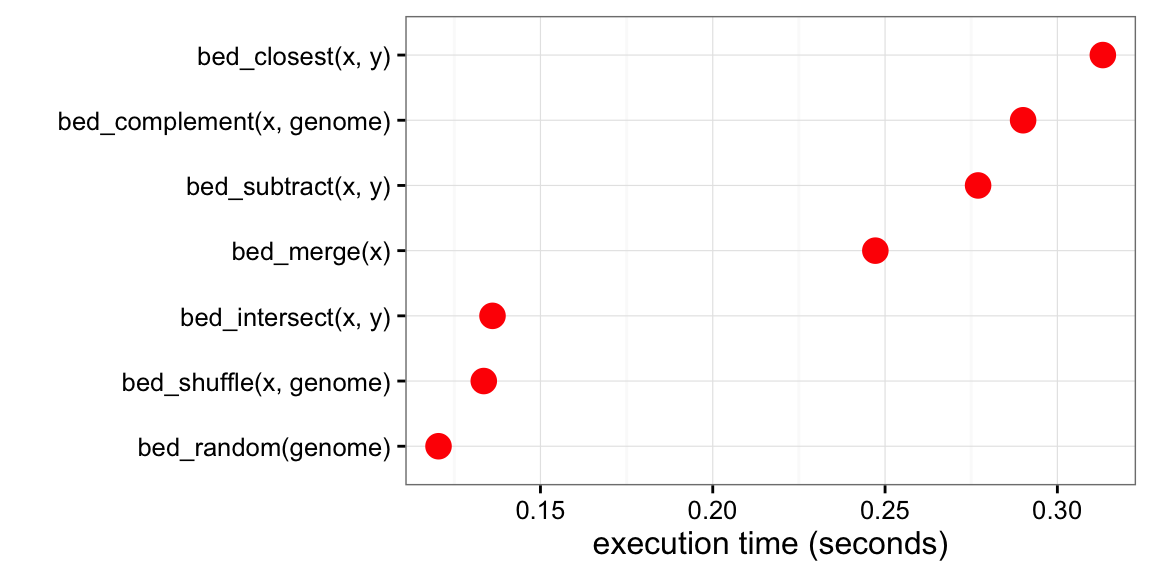
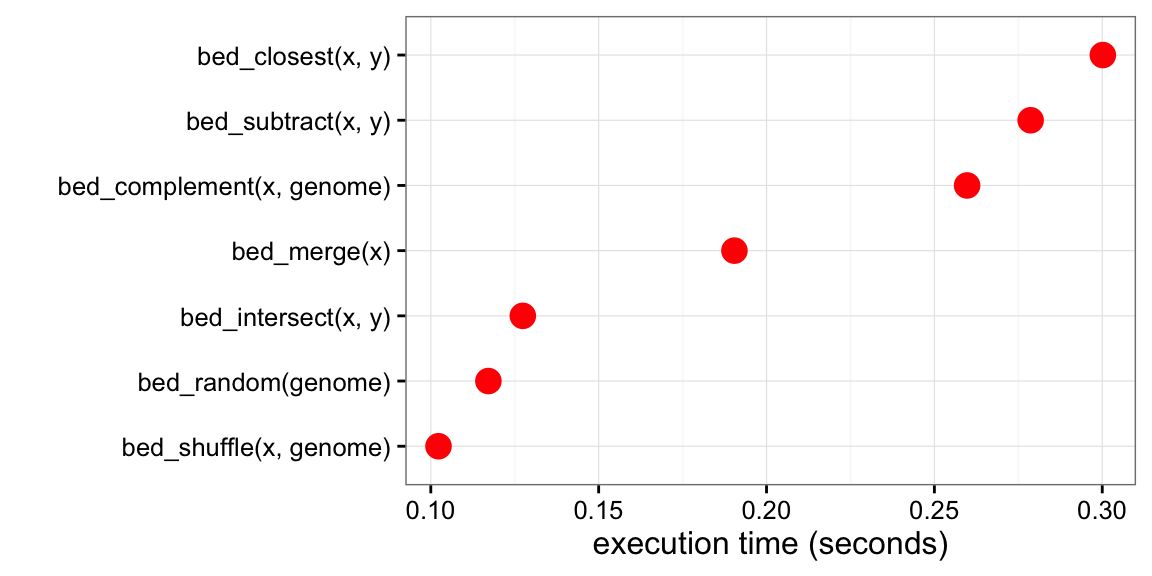
update pkgdown / family links

diff --git a/docs/reference/read_bed.html b/docs/reference/read_bed.html
@@ -128,31 +128,31 @@
     <div class="See also">
       <h2>See also</h2>
 
-      <p>Other read-funcs: <code>read_genome</code>,
-  <code>read_vcf</code></p>
+      <p>Other read-funcs: <code><a href='read_genome.html'>read_genome</a></code>,
+  <code><a href='read_vcf.html'>read_vcf</a></code></p>
     </div>
     
     <h2 id="examples">Examples</h2>
     <pre class="examples"><div class='input'><span class='co'># read_bed assumes 3 field BED format. </span>
-<span class='no'>bed3_path</span> <span class='kw'>&lt;-</span> <span class='fu'>valr_example</span>(<span class='st'>'3fields.bed.gz'</span>)
+<span class='no'>bed3_path</span> <span class='kw'>&lt;-</span> <span class='fu'><a href='valr_example.html'>valr_example</a></span>(<span class='st'>'3fields.bed.gz'</span>)
 <span class='no'>bed3_tbl</span> <span class='kw'>&lt;-</span> <span class='fu'>read_bed</span>(<span class='no'>bed3_path</span>)
 
-<span class='no'>bed6_path</span> <span class='kw'>&lt;-</span> <span class='fu'>valr_example</span>(<span class='st'>'6fields.bed.gz'</span>)
+<span class='no'>bed6_path</span> <span class='kw'>&lt;-</span> <span class='fu'><a href='valr_example.html'>valr_example</a></span>(<span class='st'>'6fields.bed.gz'</span>)
 <span class='no'>bed6_tbl</span> <span class='kw'>&lt;-</span> <span class='fu'>read_bed</span>(<span class='no'>bed6_path</span>, <span class='kw'>n_fields</span> <span class='kw'>=</span> <span class='fl'>6</span>)
 
 <span class='co'># Result is sorted by chrom and start unless `sort = FALSE`</span>
 <span class='no'>unsorted_bed_tbl</span> <span class='kw'>&lt;-</span> <span class='fu'>read_bed</span>(<span class='no'>bed3_path</span>, <span class='kw'>sort</span> <span class='kw'>=</span> <span class='fl'>FALSE</span>)
 
 <span class='co'># use `is_sorted` </span>
-<span class='fu'>is_sorted</span>(<span class='no'>unsorted_bed_tbl</span>)</div><div class='output co'>#&gt; [1] FALSE
+<span class='fu'><a href='is_sorted.html'>is_sorted</a></span>(<span class='no'>unsorted_bed_tbl</span>)</div><div class='output co'>#&gt; [1] FALSE
 #&gt; </div><div class='input'>
-<span class='no'>bed12_path</span> <span class='kw'>&lt;-</span> <span class='fu'>valr_example</span>(<span class='st'>'mm9.bed12.gz'</span>)
+<span class='no'>bed12_path</span> <span class='kw'>&lt;-</span> <span class='fu'><a href='valr_example.html'>valr_example</a></span>(<span class='st'>'mm9.bed12.gz'</span>)
 <span class='no'>bed12_tbl</span> <span class='kw'>&lt;-</span> <span class='fu'>read_bed12</span>(<span class='no'>bed12_path</span>)
 
-<span class='no'>bedgraph_path</span> <span class='kw'>&lt;-</span> <span class='fu'>valr_example</span>(<span class='st'>'test.bg.gz'</span>)
+<span class='no'>bedgraph_path</span> <span class='kw'>&lt;-</span> <span class='fu'><a href='valr_example.html'>valr_example</a></span>(<span class='st'>'test.bg.gz'</span>)
 <span class='no'>bedgraph_tbl</span> <span class='kw'>&lt;-</span> <span class='fu'>read_bedgraph</span>(<span class='no'>bedgraph_path</span>)
 
-<span class='no'>narrowpeak_path</span> <span class='kw'>&lt;-</span> <span class='fu'>valr_example</span>(<span class='st'>'sample.narrowPeak.gz'</span>)
+<span class='no'>narrowpeak_path</span> <span class='kw'>&lt;-</span> <span class='fu'><a href='valr_example.html'>valr_example</a></span>(<span class='st'>'sample.narrowPeak.gz'</span>)
 <span class='fu'>read_narrowpeak</span>(<span class='no'>narrowpeak_path</span>)</div><div class='output co'>#&gt; # A tibble: 570 × 10
 #&gt;    chrom    start      end  name score strand signal   pvalue qvalue  peak
 #&gt;    &lt;chr&gt;    &lt;int&gt;    &lt;int&gt; &lt;chr&gt; &lt;int&gt;  &lt;chr&gt;  &lt;dbl&gt;    &lt;dbl&gt;  &lt;dbl&gt; &lt;int&gt;
@@ -168,7 +168,7 @@
 #&gt; 10 chr22 18268020 18268170     .     0      .     14 12.98120     -1    -1
 #&gt; # ... with 560 more rows
 #&gt; </div><div class='input'>
-<span class='no'>broadpeak_path</span> <span class='kw'>&lt;-</span> <span class='fu'>valr_example</span>(<span class='st'>'sample.broadPeak.gz'</span>)
+<span class='no'>broadpeak_path</span> <span class='kw'>&lt;-</span> <span class='fu'><a href='valr_example.html'>valr_example</a></span>(<span class='st'>'sample.broadPeak.gz'</span>)
 <span class='fu'>read_broadpeak</span>(<span class='no'>broadpeak_path</span>)</div><div class='output co'>#&gt; # A tibble: 1,181 × 9
 #&gt;    chrom    start      end  name score strand    signal pvalue qvalue
 #&gt;    &lt;chr&gt;    &lt;int&gt;    &lt;int&gt; &lt;chr&gt; &lt;int&gt;  &lt;chr&gt;     &lt;dbl&gt;  &lt;dbl&gt;  &lt;dbl&gt;

diff --git a/docs/index.html b/docs/index.html
@@ -77,14 +77,14 @@
   <div class="col-md-9">
     
 <h1 id="valr">valr</h1>
-<p><a href="https://travis-ci.org/jayhesselberth/valr"><img src="https://travis-ci.org/jayhesselberth/valr.svg?branch=master" alt="Build Status"></a> <a href="https://codecov.io/github/jayhesselberth/valr?branch=master"><img src="https://img.shields.io/codecov/c/github/jayhesselberth/valr/master.svg" alt="Coverage Status"></a> <a href="http://www.repostatus.org/#wip"><img src="http://www.repostatus.org/badges/0.1.0/wip.svg" alt="Project Status: Wip - Initial development is in progress, but there has not yet been a stable, usable release suitable for the public."></a> <a href="http://www.r-pkg.org/pkg/valr"><img src="http://www.r-pkg.org/badges/version/valr"></a></p>
+<p><a href="https://travis-ci.org/jayhesselberth/valr"><img src="https://travis-ci.org/jayhesselberth/valr.svg?branch=master" alt="Build Status"></a> <a href="https://codecov.io/github/jayhesselberth/valr?branch=master"><img src="https://img.shields.io/codecov/c/github/jayhesselberth/valr/master.svg" alt="Coverage Status"></a> <a href="https://ci.appveyor.com/project/jayhesselberth/valr"><img src="https://ci.appveyor.com/api/projects/status/github/jayhesselberth/valr?branch=master&amp;svg=true" alt="AppVeyor Build Status"></a> <a href="http://www.repostatus.org/#wip"><img src="http://www.repostatus.org/badges/0.1.0/wip.svg" alt="Project Status: Wip - Initial development is in progress, but there has not yet been a stable, usable release suitable for the public."></a> <a href="http://www.r-pkg.org/pkg/valr"><img src="http://www.r-pkg.org/badges/version/valr"></a></p>
 <p><code>valr</code> provides tools for fast, exploratory analysis of large biological data sets <strong>within R/RStudio</strong>. <code>valr</code> was developed from a desire to teach the powerful concepts of genome interval arithmetic, but without the cumbersome back-and-forth between command-line and exploratory analysis tools.</p>
 <p>Key parts of <code>valr</code> are implemented in <a href="http://www.rcpp.org/"><code>Rcpp</code></a> for speed. Moreover, <code>valr</code> integrates with <a href="https://github.com/hadley/dplyr"><code>dplyr</code></a> and the <code>magrittr</code> pipe operator (<code>%&gt;%</code>) for an expressive syntax and can be used in reproducible reports written in <a href="http://rmarkdown.rstudio.com/"><code>RMarkdown</code></a>.</p>
 <p>See the <a href="http://jayhesselberth.github.io/valr"><code>valr</code> documentation</a> for a complete API reference and examples.</p>
 <h2 id="installation">Installation</h2>
 <p><code>valr</code> can be installed from github:</p>
-<div class="sourceCode"><pre class="sourceCode r"><code class="sourceCode r">devtools::<span class="kw">install_github</span>(<span class="st">'jayhesselberth/valr'</span>)</code></pre></div>
-<p><strong>Note</strong> that <code>valr</code> requires a full-featured C++11 compiler (<code>gcc&gt;=6.0</code> or <code>clang++</code>)</p>
+<div class="sourceCode"><pre class="sourceCode r"><code class="sourceCode r"><span class="co"># install.packages("devtools")</span>
+devtools::<span class="kw">install_github</span>(<span class="st">'jayhesselberth/valr'</span>)</code></pre></div>
 <h2 id="api">API</h2>
 <p>Function names are similar to their their <a href="http://bedtools.readthedocs.org/en/latest/">BEDtools</a> counterparts, with some additions.</p>
 <h3 id="reading-data">Reading data</h3>

diff --git a/docs/articles/valr.html b/docs/articles/valr.html
@@ -40,7 +40,7 @@
       <h1><code>valr</code>: Genome interval arithmetic in R</h1>
                         <h4 class="author">Jay Hesselberth <a href="mailto:jay.hesselberth@gmail.com">jay.hesselberth@gmail.com</a></h4>
             
-            <h4 class="date">2016-10-08</h4>
+            <h4 class="date">2016-10-11</h4>
           </div>
 
     
@@ -851,21 +851,21 @@ y &lt;-<span class="st"> </span><span class="kw"><a href="../reference/bed_rando
 )
 <span class="co">#&gt; Unit: seconds</span>
 <span class="co">#&gt;                             expr       min        lq      mean    median</span>
-<span class="co">#&gt;         bed_random(genome_human) 0.1203978 0.1203978 0.1203978 0.1203978</span>
-<span class="co">#&gt;                bed_closest(x, y) 5.0689528 5.0689528 5.0689528 5.0689528</span>
-<span class="co">#&gt;              bed_intersect(x, y) 1.8857645 1.8857645 1.8857645 1.8857645</span>
-<span class="co">#&gt;                     bed_merge(x) 3.3586847 3.3586847 3.3586847 3.3586847</span>
-<span class="co">#&gt;               bed_subtract(x, y) 3.6818359 3.6818359 3.6818359 3.6818359</span>
-<span class="co">#&gt;  bed_complement(x, genome_human) 2.8106365 2.8106365 2.8106365 2.8106365</span>
-<span class="co">#&gt;     bed_shuffle(x, genome_human) 1.0010074 1.0010074 1.0010074 1.0010074</span>
+<span class="co">#&gt;         bed_random(genome_human) 0.1323735 0.1323735 0.1323735 0.1323735</span>
+<span class="co">#&gt;                bed_closest(x, y) 5.4086166 5.4086166 5.4086166 5.4086166</span>
+<span class="co">#&gt;              bed_intersect(x, y) 1.7779920 1.7779920 1.7779920 1.7779920</span>
+<span class="co">#&gt;                     bed_merge(x) 2.1477086 2.1477086 2.1477086 2.1477086</span>
+<span class="co">#&gt;               bed_subtract(x, y) 3.1903619 3.1903619 3.1903619 3.1903619</span>
+<span class="co">#&gt;  bed_complement(x, genome_human) 2.6987088 2.6987088 2.6987088 2.6987088</span>
+<span class="co">#&gt;     bed_shuffle(x, genome_human) 1.0127592 1.0127592 1.0127592 1.0127592</span>
 <span class="co">#&gt;         uq       max neval</span>
-<span class="co">#&gt;  0.1203978 0.1203978     1</span>
-<span class="co">#&gt;  5.0689528 5.0689528     1</span>
-<span class="co">#&gt;  1.8857645 1.8857645     1</span>
-<span class="co">#&gt;  3.3586847 3.3586847     1</span>
-<span class="co">#&gt;  3.6818359 3.6818359     1</span>
-<span class="co">#&gt;  2.8106365 2.8106365     1</span>
-<span class="co">#&gt;  1.0010074 1.0010074     1</span></code></pre></div>
+<span class="co">#&gt;  0.1323735 0.1323735     1</span>
+<span class="co">#&gt;  5.4086166 5.4086166     1</span>
+<span class="co">#&gt;  1.7779920 1.7779920     1</span>
+<span class="co">#&gt;  2.1477086 2.1477086     1</span>
+<span class="co">#&gt;  3.1903619 3.1903619     1</span>
+<span class="co">#&gt;  2.6987088 2.6987088     1</span>
+<span class="co">#&gt;  1.0127592 1.0127592     1</span></code></pre></div>
 </div>
   </div>
 

diff --git a/docs/reference/bed_merge.html b/docs/reference/bed_merge.html
@@ -107,10 +107,10 @@
       <h2>See also</h2>
 
       <p><a href = 'http://bedtools.readthedocs.org/en/latest/content/tools/merge.html'>http://bedtools.readthedocs.org/en/latest/content/tools/merge.html</a></p>
-      <p>Other single-set-ops: <code>bed_cluster</code>,
-  <code>bed_complement</code>, <code>bed_flank</code>,
-  <code>bed_random</code>, <code>bed_shift</code>,
-  <code>bed_shuffle</code>, <code>bed_slop</code></p>
+      <p>Other single-set-ops: <code><a href='bed_cluster.html'>bed_cluster</a></code>,
+  <code><a href='bed_complement.html'>bed_complement</a></code>, <code><a href='bed_flank.html'>bed_flank</a></code>,
+  <code><a href='bed_random.html'>bed_random</a></code>, <code><a href='bed_shift.html'>bed_shift</a></code>,
+  <code><a href='bed_shuffle.html'>bed_shuffle</a></code>, <code><a href='bed_slop.html'>bed_slop</a></code></p>
     </div>
     
     <h2 id="examples">Examples</h2>
@@ -121,7 +121,7 @@
   <span class='st'>'chr1'</span>,  <span class='fl'>100</span>,    <span class='fl'>120</span>
 )
 
-<span class='fu'>bed_glyph</span>(<span class='fu'>bed_merge</span>(<span class='no'>x</span>), <span class='kw'>label</span> <span class='kw'>=</span> <span class='st'>'.id'</span>)</div><img src='unknown-2.png' alt='' width='540' height='400' /><div class='input'><span class='no'>x</span> <span class='kw'>&lt;-</span> <span class='kw'>tibble</span><span class='kw'>::</span><span class='fu'>tribble</span>(
+<span class='fu'><a href='bed_glyph.html'>bed_glyph</a></span>(<span class='fu'>bed_merge</span>(<span class='no'>x</span>), <span class='kw'>label</span> <span class='kw'>=</span> <span class='st'>'.id'</span>)</div><img src='unknown-2.png' alt='' width='540' height='400' /><div class='input'><span class='no'>x</span> <span class='kw'>&lt;-</span> <span class='kw'>tibble</span><span class='kw'>::</span><span class='fu'>tribble</span>(
  ~<span class='no'>chrom</span>, ~<span class='no'>start</span>, ~<span class='no'>end</span>, ~<span class='no'>value</span>, ~<span class='no'>strand</span>,
  <span class='st'>"chr1"</span>, <span class='fl'>1</span>,      <span class='fl'>50</span>,   <span class='fl'>1</span>,      <span class='st'>'+'</span>,
  <span class='st'>"chr1"</span>, <span class='fl'>100</span>,    <span class='fl'>200</span>,  <span class='fl'>2</span>,      <span class='st'>'+'</span>,

diff --git a/docs/reference/bed_glyph.html b/docs/reference/bed_glyph.html
@@ -113,7 +113,7 @@
   <span class='st'>'chr1'</span>, <span class='fl'>30</span>,     <span class='fl'>75</span>,  <span class='fl'>50</span>
 )
 
-<span class='fu'>bed_glyph</span>(<span class='fu'>bed_intersect</span>(<span class='no'>x</span>, <span class='no'>y</span>))</div><img src='unknown-2.png' alt='' width='540' height='400' /><div class='input'>
+<span class='fu'>bed_glyph</span>(<span class='fu'><a href='bed_intersect.html'>bed_intersect</a></span>(<span class='no'>x</span>, <span class='no'>y</span>))</div><img src='unknown-2.png' alt='' width='540' height='400' /><div class='input'>
 <span class='no'>x</span> <span class='kw'>&lt;-</span> <span class='kw'>tibble</span><span class='kw'>::</span><span class='fu'>tribble</span>(
   ~<span class='no'>chrom</span>, ~<span class='no'>start</span>, ~<span class='no'>end</span>,
   <span class='st'>'chr1'</span>, <span class='fl'>30</span>,     <span class='fl'>75</span>,
@@ -121,7 +121,7 @@
   <span class='st'>'chr1'</span>, <span class='fl'>91</span>,     <span class='fl'>120</span>
 )
 
-<span class='fu'>bed_glyph</span>(<span class='fu'>bed_merge</span>(<span class='no'>x</span>), <span class='kw'>label</span> <span class='kw'>=</span> <span class='st'>'.id'</span>)</div><img src='unknown-4.png' alt='' width='540' height='400' /><div class='input'><span class='fu'>bed_glyph</span>(<span class='fu'>bed_cluster</span>(<span class='no'>x</span>), <span class='kw'>label</span> <span class='kw'>=</span> <span class='st'>'.id'</span>)</div><img src='unknown-6.png' alt='' width='540' height='400' /><div class='input'>
+<span class='fu'>bed_glyph</span>(<span class='fu'><a href='bed_merge.html'>bed_merge</a></span>(<span class='no'>x</span>), <span class='kw'>label</span> <span class='kw'>=</span> <span class='st'>'.id'</span>)</div><img src='unknown-4.png' alt='' width='540' height='400' /><div class='input'><span class='fu'>bed_glyph</span>(<span class='fu'><a href='bed_cluster.html'>bed_cluster</a></span>(<span class='no'>x</span>), <span class='kw'>label</span> <span class='kw'>=</span> <span class='st'>'.id'</span>)</div><img src='unknown-6.png' alt='' width='540' height='400' /><div class='input'>
 </div></pre>
   </div>
   <div class="col-md-3">

diff --git a/docs/reference/bed_flank.html b/docs/reference/bed_flank.html
@@ -118,10 +118,10 @@
       <h2>See also</h2>
 
       <p><a href = 'http://bedtools.readthedocs.org/en/latest/content/tools/flank.html'>http://bedtools.readthedocs.org/en/latest/content/tools/flank.html</a></p>
-      <p>Other single-set-ops: <code>bed_cluster</code>,
-  <code>bed_complement</code>, <code>bed_merge</code>,
-  <code>bed_random</code>, <code>bed_shift</code>,
-  <code>bed_shuffle</code>, <code>bed_slop</code></p>
+      <p>Other single-set-ops: <code><a href='bed_cluster.html'>bed_cluster</a></code>,
+  <code><a href='bed_complement.html'>bed_complement</a></code>, <code><a href='bed_merge.html'>bed_merge</a></code>,
+  <code><a href='bed_random.html'>bed_random</a></code>, <code><a href='bed_shift.html'>bed_shift</a></code>,
+  <code><a href='bed_shuffle.html'>bed_shuffle</a></code>, <code><a href='bed_slop.html'>bed_slop</a></code></p>
     </div>
     
     <h2 id="examples">Examples</h2>
@@ -137,7 +137,7 @@
   <span class='st'>'chr1'</span>,      <span class='fl'>125</span>
 )
 
-<span class='fu'>bed_glyph</span>(<span class='fu'>bed_flank</span>(<span class='no'>x</span>, <span class='no'>genome</span>, <span class='kw'>both</span> <span class='kw'>=</span> <span class='fl'>20</span>))</div><img src='unknown-2.png' alt='' width='540' height='400' /><div class='input'>
+<span class='fu'><a href='bed_glyph.html'>bed_glyph</a></span>(<span class='fu'>bed_flank</span>(<span class='no'>x</span>, <span class='no'>genome</span>, <span class='kw'>both</span> <span class='kw'>=</span> <span class='fl'>20</span>))</div><img src='unknown-2.png' alt='' width='540' height='400' /><div class='input'>
 <span class='no'>x</span> <span class='kw'>&lt;-</span> <span class='kw'>tibble</span><span class='kw'>::</span><span class='fu'>tribble</span>(
  ~<span class='no'>chrom</span>, ~<span class='no'>start</span>, ~<span class='no'>end</span>, ~<span class='no'>name</span>, ~<span class='no'>score</span>, ~<span class='no'>strand</span>,
  <span class='st'>"chr1"</span>, <span class='fl'>500</span>,    <span class='fl'>1000</span>, <span class='st'>'.'</span>,   <span class='st'>'.'</span>,    <span class='st'>'+'</span>,

diff --git a/docs/reference/bed_slop.html b/docs/reference/bed_slop.html
@@ -118,10 +118,10 @@
       <h2>See also</h2>
 
       <p><a href = 'http://bedtools.readthedocs.org/en/latest/content/tools/slop.html'>http://bedtools.readthedocs.org/en/latest/content/tools/slop.html</a></p>
-      <p>Other single-set-ops: <code>bed_cluster</code>,
-  <code>bed_complement</code>, <code>bed_flank</code>,
-  <code>bed_merge</code>, <code>bed_random</code>,
-  <code>bed_shift</code>, <code>bed_shuffle</code></p>
+      <p>Other single-set-ops: <code><a href='bed_cluster.html'>bed_cluster</a></code>,
+  <code><a href='bed_complement.html'>bed_complement</a></code>, <code><a href='bed_flank.html'>bed_flank</a></code>,
+  <code><a href='bed_merge.html'>bed_merge</a></code>, <code><a href='bed_random.html'>bed_random</a></code>,
+  <code><a href='bed_shift.html'>bed_shift</a></code>, <code><a href='bed_shuffle.html'>bed_shuffle</a></code></p>
     </div>
     
     <h2 id="examples">Examples</h2>
@@ -136,7 +136,7 @@
   <span class='st'>'chr1'</span>,      <span class='fl'>400</span>
 )
 
-<span class='fu'>bed_glyph</span>(<span class='fu'>bed_slop</span>(<span class='no'>x</span>, <span class='no'>genome</span>, <span class='kw'>both</span> <span class='kw'>=</span> <span class='fl'>20</span>, <span class='kw'>trim</span> <span class='kw'>=</span> <span class='fl'>TRUE</span>))</div><img src='unknown-2.png' alt='' width='540' height='400' /><div class='input'>
+<span class='fu'><a href='bed_glyph.html'>bed_glyph</a></span>(<span class='fu'>bed_slop</span>(<span class='no'>x</span>, <span class='no'>genome</span>, <span class='kw'>both</span> <span class='kw'>=</span> <span class='fl'>20</span>, <span class='kw'>trim</span> <span class='kw'>=</span> <span class='fl'>TRUE</span>))</div><img src='unknown-2.png' alt='' width='540' height='400' /><div class='input'>
 <span class='no'>genome</span> <span class='kw'>&lt;-</span> <span class='kw'>tibble</span><span class='kw'>::</span><span class='fu'>tribble</span>(
  ~<span class='no'>chrom</span>, ~<span class='no'>size</span>,
  <span class='st'>"chr1"</span>, <span class='fl'>5000</span>

diff --git a/docs/reference/bed_shift.html b/docs/reference/bed_shift.html
@@ -109,10 +109,10 @@
       <h2>See also</h2>
 
       <p><a href = 'http://bedtools.readthedocs.org/en/latest/content/tools/shift.html'>http://bedtools.readthedocs.org/en/latest/content/tools/shift.html</a></p>
-      <p>Other single-set-ops: <code>bed_cluster</code>,
-  <code>bed_complement</code>, <code>bed_flank</code>,
-  <code>bed_merge</code>, <code>bed_random</code>,
-  <code>bed_shuffle</code>, <code>bed_slop</code></p>
+      <p>Other single-set-ops: <code><a href='bed_cluster.html'>bed_cluster</a></code>,
+  <code><a href='bed_complement.html'>bed_complement</a></code>, <code><a href='bed_flank.html'>bed_flank</a></code>,
+  <code><a href='bed_merge.html'>bed_merge</a></code>, <code><a href='bed_random.html'>bed_random</a></code>,
+  <code><a href='bed_shuffle.html'>bed_shuffle</a></code>, <code><a href='bed_slop.html'>bed_slop</a></code></p>
     </div>
     
     <h2 id="examples">Examples</h2>
@@ -128,7 +128,7 @@
   <span class='st'>'chr1'</span>,      <span class='fl'>125</span>
 )
 
-<span class='fu'>bed_glyph</span>(<span class='fu'>bed_shift</span>(<span class='no'>x</span>, <span class='no'>genome</span>, <span class='kw'>size</span> <span class='kw'>=</span> -<span class='fl'>20</span>))</div><img src='unknown-2.png' alt='' width='540' height='400' /><div class='input'>
+<span class='fu'><a href='bed_glyph.html'>bed_glyph</a></span>(<span class='fu'>bed_shift</span>(<span class='no'>x</span>, <span class='no'>genome</span>, <span class='kw'>size</span> <span class='kw'>=</span> -<span class='fl'>20</span>))</div><img src='unknown-2.png' alt='' width='540' height='400' /><div class='input'>
 <span class='no'>x</span> <span class='kw'>&lt;-</span> <span class='kw'>tibble</span><span class='kw'>::</span><span class='fu'>tribble</span>(
    ~<span class='no'>chrom</span>, ~<span class='no'>start</span>, ~<span class='no'>end</span>, ~<span class='no'>strand</span>,
    <span class='st'>"chr1"</span>, <span class='fl'>100</span>, <span class='fl'>150</span>, <span class='st'>"+"</span>,

diff --git a/docs/reference/bed_window.html b/docs/reference/bed_window.html
@@ -101,9 +101,9 @@
       <h2>See also</h2>
 
       <p><a href = 'http://bedtools.readthedocs.org/en/latest/content/tools/window.html'>http://bedtools.readthedocs.org/en/latest/content/tools/window.html</a></p>
-      <p>Other multi-set-ops: <code>bed_closest</code>,
-  <code>bed_coverage</code>, <code>bed_intersect</code>,
-  <code>bed_subtract</code></p>
+      <p>Other multi-set-ops: <code><a href='bed_closest.html'>bed_closest</a></code>,
+  <code><a href='bed_coverage.html'>bed_coverage</a></code>, <code><a href='bed_intersect.html'>bed_intersect</a></code>,
+  <code><a href='bed_subtract.html'>bed_subtract</a></code></p>
     </div>
     
     <h2 id="examples">Examples</h2>
@@ -124,7 +124,7 @@
   <span class='st'>'chr1'</span>,      <span class='fl'>125</span>
 )
 
-<span class='fu'>bed_glyph</span>(<span class='fu'>bed_window</span>(<span class='no'>x</span>, <span class='no'>y</span>, <span class='no'>genome</span>, <span class='kw'>both</span> <span class='kw'>=</span> <span class='fl'>15</span>))</div><img src='unknown-2.png' alt='' width='540' height='400' /><div class='input'>
+<span class='fu'><a href='bed_glyph.html'>bed_glyph</a></span>(<span class='fu'>bed_window</span>(<span class='no'>x</span>, <span class='no'>y</span>, <span class='no'>genome</span>, <span class='kw'>both</span> <span class='kw'>=</span> <span class='fl'>15</span>))</div><img src='unknown-2.png' alt='' width='540' height='400' /><div class='input'>
 <span class='no'>x</span> <span class='kw'>&lt;-</span> <span class='kw'>tibble</span><span class='kw'>::</span><span class='fu'>tribble</span>(
   ~<span class='no'>chrom</span>, ~<span class='no'>start</span>, ~<span class='no'>end</span>,
   <span class='st'>"chr1"</span>, <span class='fl'>10</span>,    <span class='fl'>100</span>,

diff --git a/docs/reference/bed_cluster.html b/docs/reference/bed_cluster.html
@@ -107,10 +107,10 @@ overlapping and book-ended intervals will be clustered.</p>
       <h2>See also</h2>
 
       <p><a href = 'http://bedtools.readthedocs.org/en/latest/content/tools/cluster.html'>http://bedtools.readthedocs.org/en/latest/content/tools/cluster.html</a></p>
-      <p>Other single-set-ops: <code>bed_complement</code>,
-  <code>bed_flank</code>, <code>bed_merge</code>,
-  <code>bed_random</code>, <code>bed_shift</code>,
-  <code>bed_shuffle</code>, <code>bed_slop</code></p>
+      <p>Other single-set-ops: <code><a href='bed_complement.html'>bed_complement</a></code>,
+  <code><a href='bed_flank.html'>bed_flank</a></code>, <code><a href='bed_merge.html'>bed_merge</a></code>,
+  <code><a href='bed_random.html'>bed_random</a></code>, <code><a href='bed_shift.html'>bed_shift</a></code>,
+  <code><a href='bed_shuffle.html'>bed_shuffle</a></code>, <code><a href='bed_slop.html'>bed_slop</a></code></p>
     </div>
     
     <h2 id="examples">Examples</h2>
@@ -139,7 +139,7 @@ overlapping and book-ended intervals will be clustered.</p>
   <span class='st'>'chr1'</span>,      <span class='fl'>100</span>,    <span class='fl'>120</span>
 )
 
-<span class='fu'>bed_glyph</span>(<span class='fu'>bed_cluster</span>(<span class='no'>x</span>), <span class='kw'>label</span> <span class='kw'>=</span> <span class='st'>'.id'</span>)</div><img src='unknown-4.png' alt='' width='540' height='400' /><div class='input'>
+<span class='fu'><a href='bed_glyph.html'>bed_glyph</a></span>(<span class='fu'>bed_cluster</span>(<span class='no'>x</span>), <span class='kw'>label</span> <span class='kw'>=</span> <span class='st'>'.id'</span>)</div><img src='unknown-4.png' alt='' width='540' height='400' /><div class='input'>
 </div></pre>
   </div>
   <div class="col-md-3">

diff --git a/docs/reference/bed_closest.html b/docs/reference/bed_closest.html
@@ -118,9 +118,9 @@ genome (default) = use negative distances to report upstream intervals,
       <h2>See also</h2>
 
       <p><a href = 'http://bedtools.readthedocs.io/en/latest/content/tools/closest.html'>http://bedtools.readthedocs.io/en/latest/content/tools/closest.html</a></p>
-      <p>Other multi-set-ops: <code>bed_coverage</code>,
-  <code>bed_intersect</code>, <code>bed_subtract</code>,
-  <code>bed_window</code></p>
+      <p>Other multi-set-ops: <code><a href='bed_coverage.html'>bed_coverage</a></code>,
+  <code><a href='bed_intersect.html'>bed_intersect</a></code>, <code><a href='bed_subtract.html'>bed_subtract</a></code>,
+  <code><a href='bed_window.html'>bed_window</a></code></p>
     </div>
     
     <h2 id="examples">Examples</h2>
@@ -135,7 +135,7 @@ genome (default) = use negative distances to report upstream intervals,
   <span class='st'>'chr1'</span>,     <span class='fl'>140</span>,     <span class='fl'>175</span>
 )
 
-<span class='fu'>bed_glyph</span>(<span class='fu'>bed_closest</span>(<span class='no'>x</span>, <span class='no'>y</span>))</div><img src='unknown-2.png' alt='' width='540' height='400' /><div class='input'>
+<span class='fu'><a href='bed_glyph.html'>bed_glyph</a></span>(<span class='fu'>bed_closest</span>(<span class='no'>x</span>, <span class='no'>y</span>))</div><img src='unknown-2.png' alt='' width='540' height='400' /><div class='input'>
 <span class='no'>x</span> <span class='kw'>&lt;-</span> <span class='kw'>tibble</span><span class='kw'>::</span><span class='fu'>tribble</span>(
 ~<span class='no'>chrom</span>, ~<span class='no'>start</span>, ~<span class='no'>end</span>,
 <span class='st'>"chr1"</span>, <span class='fl'>500</span>,    <span class='fl'>600</span>,

diff --git a/docs/reference/read_genome.html b/docs/reference/read_genome.html
@@ -115,12 +115,12 @@ one-pair-per-line, tab-delimited</dd>
     <div class="See also">
       <h2>See also</h2>
 
-      <p>Other read-funcs: <code>read_bed</code>,
-  <code>read_vcf</code></p>
+      <p>Other read-funcs: <code><a href='read_bed.html'>read_bed</a></code>,
+  <code><a href='read_vcf.html'>read_vcf</a></code></p>
     </div>
     
     <h2 id="examples">Examples</h2>
-    <pre class="examples"><div class='input'><span class='no'>genome</span> <span class='kw'>&lt;-</span> <span class='fu'>valr_example</span>(<span class='st'>'hg19.chrom.sizes.gz'</span>)
+    <pre class="examples"><div class='input'><span class='no'>genome</span> <span class='kw'>&lt;-</span> <span class='fu'><a href='valr_example.html'>valr_example</a></span>(<span class='st'>'hg19.chrom.sizes.gz'</span>)
 <span class='fu'>read_genome</span>(<span class='no'>genome</span>)</div><div class='output co'>#&gt; # A tibble: 25 × 2
 #&gt;    chrom      size
 #&gt;    &lt;chr&gt;     &lt;int&gt;
@@ -148,7 +148,7 @@ one-pair-per-line, tab-delimited</dd>
  <span class='st'>"chr1"</span>, <span class='fl'>500</span>,    <span class='fl'>1000</span>
 )
 
-<span class='no'>genome</span> <span class='kw'>&lt;-</span> <span class='fu'>read_genome</span>(<span class='fu'>valr_example</span>(<span class='st'>'hg19.chrom.sizes.gz'</span>))
+<span class='no'>genome</span> <span class='kw'>&lt;-</span> <span class='fu'>read_genome</span>(<span class='fu'><a href='valr_example.html'>valr_example</a></span>(<span class='st'>'hg19.chrom.sizes.gz'</span>))
 
 <span class='fu'>bound_intervals</span>(<span class='no'>x</span>, <span class='no'>genome</span>)</div><div class='output co'>#&gt; # A tibble: 1 × 3
 #&gt;   chrom start   end
